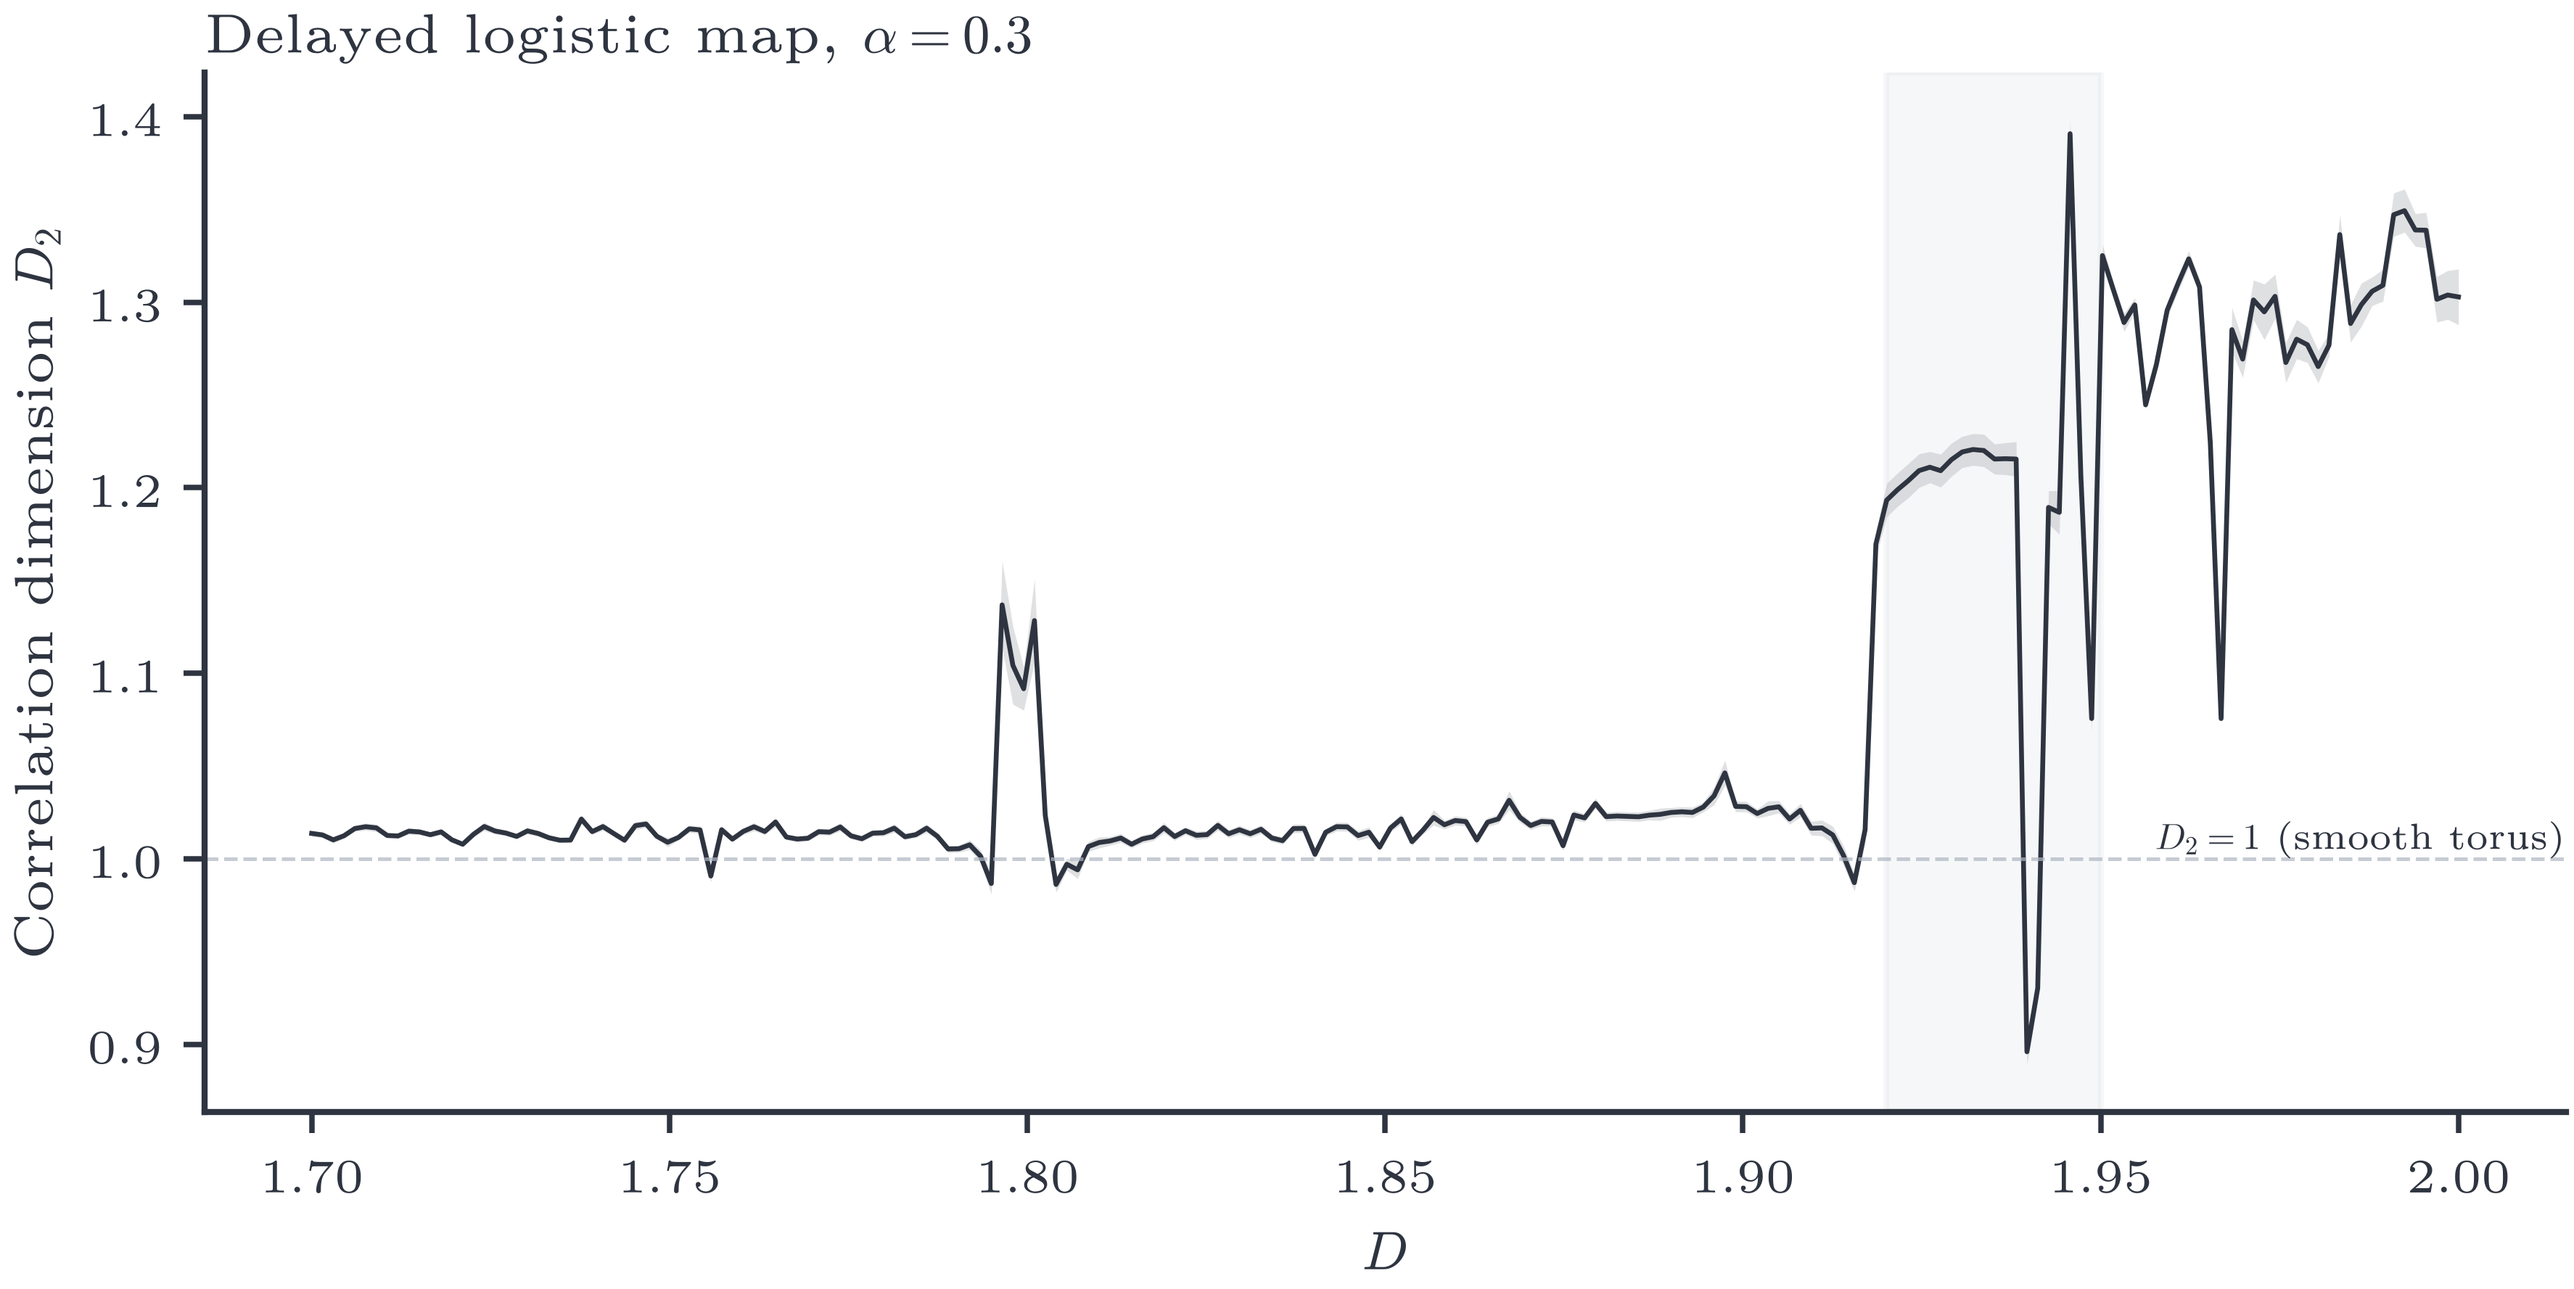
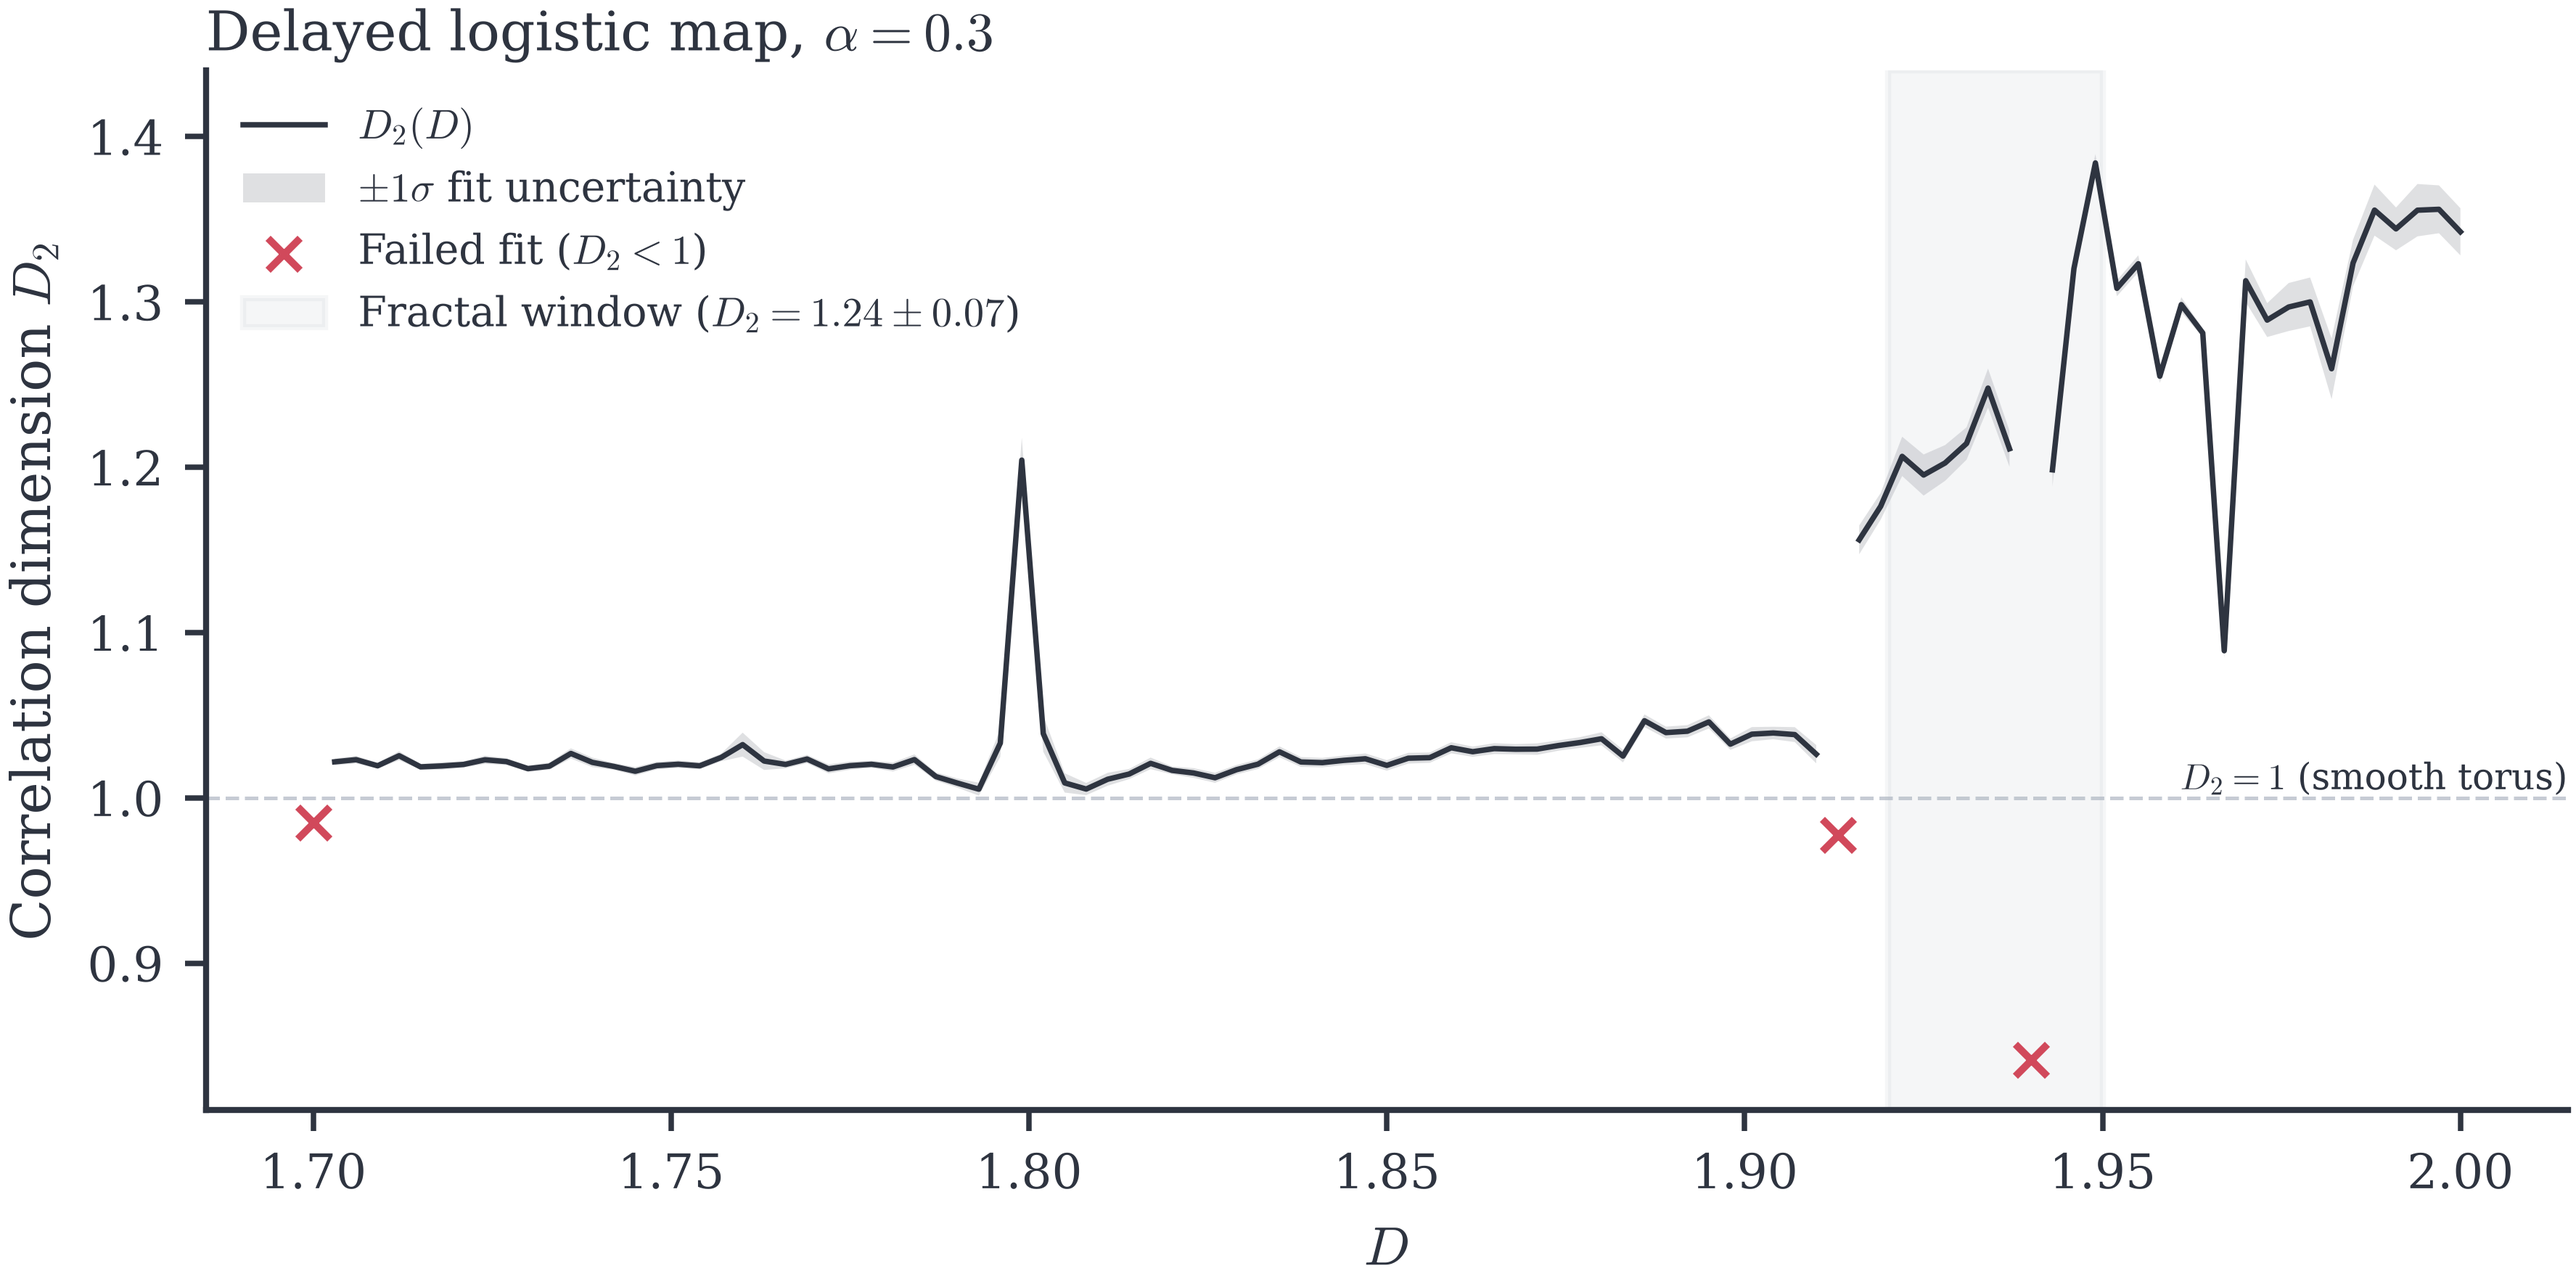
sec07: port the 101-point correlation-dimension sweep with window statistics
The review figure scans 101 values of D on [1.70, 2.00] (20,000 samples, 200,000
pairs, 40 radii) and quotes D_2 over the fractalized window [1.92, 1.95] as the
mean and the sample scatter of the valid fits (1.242 +/- 0.066). A fit with
D_2 < 1 cannot belong to a curve and is a failed fit: compute_dimensions flags
it, dimension_window_statistics leaves it out, and plot_dimension marks it with a
cross and leaves a gap in the curve and band. The y-axis now also includes the
failed fits, so the D_2 = 0.84 fit near D = 1.94 is visible (it fell below the
axis before). correlation_dimension.npz reproduces the earlier private result
exactly (the private key 'alpha' is called 'A' here, as in the registry contract).
The cache test gains the grid, the flag/window bookkeeping and a recomputation of
the window statistics; a unit test covers the statistics.

diff --git a/src/dynachaos/maps/fractalization.py b/src/dynachaos/maps/fractalization.py
@@ -18,7 +18,10 @@ Fractalization visible for D ∈ [1.90, 1.95].
 
 Figures:
   - Attractor portraits showing progressive fractalization
-  - Correlation dimension D_2 vs D (Grassberger-Procaccia)
+  - Correlation dimension D_2 vs D (Grassberger-Procaccia): 101 values of D, with the mean
+    and scatter of D_2 over the fractalized window D in [1.92, 1.95].  A fit that gives
+    D_2 < 1 is a failed fit (a curve cannot have a dimension below 1): it is marked and
+    left out of the curve, the band and the window statistics.
 
 OUTPUTS: figures/sec07_fractalization/*.npz, *.png
 USAGE:   python src/dynachaos/maps/fractalization.py
@@ -39,6 +42,9 @@ DIM_NPZ = FIG_DIR / "correlation_dimension.npz"
 DIM_PNG = FIG_DIR / "correlation_dimension.png"
 ANIM_NPZ = FIG_DIR / "fractalization_animation.npz"
 ANIM_GIF = FIG_DIR / "fractalization_animation.gif"
+
+# Fractalized window of D over which D_2 is averaged.
+FRACTAL_WINDOW = (1.92, 1.95)
 
 
 # ---------------------------------------------------------------------------
@@ -86,36 +92,69 @@ def compute_attractors():
     print(f"Saved {FRAC_NPZ}")
 
 
-def compute_dimensions():
-    """Compute correlation dimension D_2 vs D."""
+def dimension_window_statistics(D, D2, window=FRACTAL_WINDOW):
+    """Return ``(valid, mean, std)`` of D_2 over ``window``, leaving out failed fits.
+
+    ``valid`` marks the fits with D_2 >= 1.  ``mean`` and ``std`` (sample standard
+    deviation, ddof = 1) use the valid fits inside the closed interval ``window``;
+    each is NaN when the window holds too few valid fits.
+    """
+    D = np.asarray(D)
+    D2 = np.asarray(D2)
+    valid = D2 >= 1.0
+    window_D2 = D2[(D >= window[0]) & (D <= window[1]) & valid]
+    mean = float(np.mean(window_D2)) if window_D2.size > 0 else np.nan
+    std = float(np.std(window_D2, ddof=1)) if window_D2.size > 1 else np.nan
+    return valid, mean, std
+
+
+def compute_dimensions(
+    A=0.3,
+    n_params=101,
+    d_min=1.70,
+    d_max=2.00,
+    n_transient=10_000,
+    n_record=20_000,
+    max_pairs=200_000,
+    n_r=40,
+    window=FRACTAL_WINDOW,
+):
+    """Compute the correlation dimension D_2 over a sweep of D and save the cache."""
     FIG_DIR.mkdir(parents=True, exist_ok=True)
 
-    A = 0.3
-    n_params = 200
-    D_values = np.linspace(1.70, 2.00, n_params)
-    D2_values = np.empty(n_params)
-    D2_err_values = np.empty(n_params)
+    D_values = np.linspace(d_min, d_max, n_params)
+    D2_values = np.empty(n_params, dtype=np.float64)
+    D2_err_values = np.empty(n_params, dtype=np.float64)
 
     for i, D in enumerate(D_values):
-        traj = iterate(A, D, n_transient=50_000, n_record=100_000)
+        traj = iterate(A, D, n_transient=n_transient, n_record=n_record)
         D2, _, _, D2_err, _, _ = correlation_dimension(
-            traj, n_r=50, max_pairs=1_000_000, return_stderr=True
+            traj, n_r=n_r, max_pairs=max_pairs, return_stderr=True
         )
         D2_values[i] = D2
         D2_err_values[i] = D2_err
+        if (i + 1) % 20 == 0 or i == n_params - 1:
+            print(f"  [{i + 1}/{n_params}] D = {D:.4f}: D2 = {D2:.3f} +/- {D2_err:.3f}")
 
-        if (i + 1) % 20 == 0:
-            print(f"  Dimension: {i + 1}/{n_params}")
-            np.savez_compressed(
-                DIM_NPZ,
-                D=D_values[: i + 1],
-                D2=D2_values[: i + 1],
-                D2_err=D2_err_values[: i + 1],
-                A=np.array([A]),
-            )
+    valid, mean_D2, std_D2 = dimension_window_statistics(D_values, D2_values, window)
+    print(f"  Failed fits (D2 < 1): {np.count_nonzero(~valid)} of {n_params}")
+    print(f"  D_2 = {mean_D2:.3f} +/- {std_D2:.3f} over D in [{window[0]}, {window[1]}]")
 
-    np.savez_compressed(DIM_NPZ, D=D_values, D2=D2_values, D2_err=D2_err_values, A=np.array([A]))
+    payload = {
+        "D": D_values,
+        "D2": D2_values,
+        "D2_err": D2_err_values,
+        "valid_mask": valid,
+        "failed_mask": ~valid,
+        "mean_window_D2": np.array([mean_D2]),
+        "std_window_D2": np.array([std_D2]),
+        "window_min": np.array([window[0]]),
+        "window_max": np.array([window[1]]),
+        "A": np.array([A]),
+    }
+    np.savez_compressed(DIM_NPZ, **payload)
     print(f"Saved {DIM_NPZ}")
+    return payload
 
 
 # ---------------------------------------------------------------------------
@@ -188,7 +227,7 @@ def plot_attractors(data):
 
 
 def plot_dimension(data):
-    """Plot correlation dimension D_2 vs D."""
+    """Plot D_2 vs D with failed fits (D_2 < 1) marked and the fractal-window statistics."""
     import matplotlib.pyplot as plt
 
     from dynachaos.utils.style import (
@@ -205,32 +244,55 @@ def plot_dimension(data):
     D = data["D"]
     D2 = data["D2"]
     D2_err = data["D2_err"]
+    valid, mean_D2, std_D2 = dimension_window_statistics(D, D2)
+    failed = ~valid
 
     spec = figure_spec("double")
     fig, ax = plt.subplots(figsize=spec.figsize)
-    ax.plot(D, D2, color=COLORS["black"], linestyle="-", lw=0.8)
+
+    # Valid fits as continuous segments; failed fits leave a gap in the curve and band.
+    d2_valid = np.where(valid, D2, np.nan)
+    d2_err_valid = np.where(valid, D2_err, np.nan)
+    ax.plot(D, d2_valid, color=COLORS["black"], linestyle="-", lw=0.9, label=r"$D_2(D)$")
     ax.fill_between(
         D,
-        D2 - D2_err,
-        D2 + D2_err,
+        d2_valid - d2_err_valid,
+        d2_valid + d2_err_valid,
         alpha=0.15,
         color=COLORS["black"],
         linewidth=0,
         zorder=0,
+        label=r"$\pm 1\sigma$ fit uncertainty",
     )
-    reference_line(ax, 1.0, axis="y", lw=0.6, alpha=0.7, label="$D_2 = 1$ (smooth torus)")
-    ax.axvspan(1.92, 1.95, color=COLORS["grey"], alpha=0.10, zorder=0)
+    if np.any(failed):
+        ax.scatter(
+            D[failed],
+            D2[failed],
+            color=COLORS["red"],
+            marker="x",
+            s=28,
+            linewidths=1.2,
+            zorder=4,
+            label=r"Failed fit ($D_2 < 1$)",
+        )
+    reference_line(ax, 1.0, axis="y", lw=0.6, alpha=0.7, label=r"$D_2 = 1$ (smooth torus)")
+    ax.axvspan(
+        *FRACTAL_WINDOW,
+        color=COLORS["grey"],
+        alpha=0.12,
+        zorder=0,
+        label=rf"Fractal window ($D_2 = {mean_D2:.2f} \pm {std_D2:.2f}$)",
+    )
     ax.set_xlabel(r"$D$")
     ax.set_ylabel(r"Correlation dimension $D_2$")
     ax.set_title(r"Delayed logistic map, $\alpha = 0.3$", loc="left")
-    # The old fixed (0.9, 1.45) ylim silently clipped the D2-D2_err dip near
-    # D~1.94 (down to ~0.886), cutting off the exact "local dips near the
-    # transition" the caption asks the reader to see. Derive the limits from
-    # the data (with the +/-1 sigma band included) so nothing is cropped.
-    y_lo = float(np.min(D2 - D2_err))
-    y_hi = float(np.max(D2 + D2_err))
-    y_pad = 0.05 * (y_hi - y_lo)
-    ax.set_ylim(y_lo - y_pad, y_hi + y_pad)
+    # Limits come from the valid fits with their +/-1 sigma band and from every failed
+    # fit, so no marker falls outside the axes (the D_2 = 0.84 fit near D = 1.94 would).
+    y_min = min(0.95, float(np.nanmin(D2[valid] - D2_err[valid])))
+    if np.any(failed):
+        y_min = min(y_min, float(np.nanmin(D2[failed])))
+    y_max = max(1.40, float(np.nanmax(D2[valid] + D2_err[valid])))
+    ax.set_ylim(y_min - 0.03, y_max + 0.04)
     apply_axes_polish(ax, kind="double", title_loc="left", grid=False)
     finalize_legend(ax, kind="single", loc="upper left")
 

diff --git a/tests/test_maps.py b/tests/test_maps.py
@@ -61,6 +61,7 @@ from dynachaos.maps.delayed_logistic import (
 from dynachaos.maps.delayed_logistic import (
     compute_lyapunov_spectrum as compute_delayed_lyapunov_spectrum,
 )
+from dynachaos.maps.fractalization import dimension_window_statistics
 from dynachaos.maps.henon import henon, henon_jac
 from dynachaos.maps.intermittency import (
     LOGISTIC_TYPE_I_ONSET,
@@ -800,6 +801,48 @@ def test_sec07_correlation_dimension_cache_stays_bounded_and_rises():
     assert np.max(D2) <= 1.45
     assert np.median(high_window) > np.median(low_window) + 0.15
     assert np.corrcoef(D, D2)[0, 1] > 0.5
+
+    # 101 values of D on [1.70, 2.00]; a smooth torus has D_2 = 1.
+    np.testing.assert_allclose(D, np.linspace(1.70, 2.00, 101))
+    assert abs(np.median(low_window) - 1.0) < 0.05
+
+    # A fit below D_2 = 1 is a failed fit: it is flagged, and it is left out of the window
+    # statistics, whose values are recomputed here from the stored sweep.
+    with np.load(
+        "figures/sec07_fractalization/correlation_dimension.npz", allow_pickle=False
+    ) as data:
+        valid_mask = data["valid_mask"]
+        failed_mask = data["failed_mask"]
+        stored = (float(data["mean_window_D2"][0]), float(data["std_window_D2"][0]))
+        window = (float(data["window_min"][0]), float(data["window_max"][0]))
+    np.testing.assert_array_equal(valid_mask, D2 >= 1.0)
+    np.testing.assert_array_equal(failed_mask, ~valid_mask)
+    assert 1 <= failed_mask.sum() <= 10
+    assert np.all(D2[failed_mask] > 0.8)
+    assert window == (1.92, 1.95)
+    _, mean_D2, std_D2 = dimension_window_statistics(D, D2, window)
+    assert stored == pytest.approx((mean_D2, std_D2), rel=1e-12)
+    assert 1.15 < mean_D2 < 1.35
+    assert 0.0 < std_D2 < 0.15
+
+
+def test_dimension_window_statistics_leaves_out_failed_fits():
+    D = np.array([1.90, 1.92, 1.93, 1.94, 1.95, 1.96])
+    D2 = np.array([1.00, 1.20, 0.90, 1.30, 1.25, 1.00])
+
+    valid, mean, std = dimension_window_statistics(D, D2, (1.92, 1.95))
+
+    np.testing.assert_array_equal(valid, [True, True, False, True, True, True])
+    # The window holds 1.20, 1.30 and 1.25 (the failed 0.90 is left out).
+    assert mean == pytest.approx(1.25)
+    assert std == pytest.approx(0.05)
+    # One valid fit gives a mean without scatter; none gives neither.
+    _, mean_one, std_one = dimension_window_statistics(D, D2, (1.94, 1.945))
+    assert mean_one == pytest.approx(1.30)
+    assert np.isnan(std_one)
+    _, mean_none, std_none = dimension_window_statistics(D, D2, (1.93, 1.935))
+    assert np.isnan(mean_none)
+    assert np.isnan(std_none)
 
 
 def test_sec09_spatial_activity_separates_pattern_phase_samples():

diff --git a/src/dynachaos/pipelines/registry.py b/src/dynachaos/pipelines/registry.py
@@ -338,7 +338,21 @@ SECTION_SPECS = {
         ),
         npz_contracts=(
             NpzContract("fractal_attractors.npz", ("D_values", "A")),
-            NpzContract("correlation_dimension.npz", ("D", "D2", "A")),
+            NpzContract(
+                "correlation_dimension.npz",
+                (
+                    "D",
+                    "D2",
+                    "D2_err",
+                    "A",
+                    "valid_mask",
+                    "failed_mask",
+                    "mean_window_D2",
+                    "std_window_D2",
+                    "window_min",
+                    "window_max",
+                ),
+            ),
         ),
         figures=(
             FigureSpec(

diff --git a/examples/snippets/sec07_fractalization/correlation_dimension.py b/examples/snippets/sec07_fractalization/correlation_dimension.py
@@ -1,5 +1,6 @@
 # Reduced preview (3 D values, 3000 points). Full figure: dynachaos run sec07_fractalization
-# Correlation dimension D_2(D) of the delayed logistic map (alpha=0.3).
+# Correlation dimension D_2(D) of the delayed logistic map (alpha = 0.3).
+# Full figure uses 101 values; window [1.92, 1.95] gives D_2 = 1.24 +/- 0.07 (excluding D_2 < 1).
 from dynachaos.diagnostics.correlation import correlation_dimension
 from dynachaos.maps.fractalization import iterate
 
